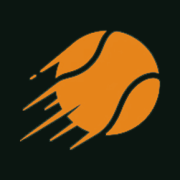
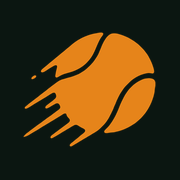
Sitio instalable como app (PWA) e íconos desde el original
Manifiesto y service worker de "primero la red": se instala en Android e
iPhone y abre sin conexión; /api y /admin nunca pasan por él. Interruptores
de retiro (RETIRED en sw.js, PWA en app.js) probados para volver al sitio
anterior. Favicon, ícono de iPhone e íconos de la app regenerados desde el
original en 1024 px, en su versión plana.

Changed region(s): [[0.1111, 0.1667, 0.8889, 0.8333], [0.3611, 0.25, 0.3889, 0.2778], [0.3333, 0.2778, 0.3611, 0.3056]]

diff --git a/public/sw.js b/public/sw.js
@@ -1,0 +1,55 @@
+// Service worker de Peloteo: permite instalar el sitio como app y abrirlo sin conexión.
+//
+// - Primero la red: si hay conexión, siempre se ve la versión publicada (un push a
+//   main llega igual que antes). La copia guardada solo se usa sin conexión.
+// - /api y /admin nunca pasan por aquí: los datos de partidos y el panel siempre
+//   van al servidor. Sin conexión, la app muestra su aviso "Revisa tu conexión".
+// - Al cambiar VERSION se descartan las copias anteriores.
+//
+// RETIRO: para dejar el sitio como antes de la app instalable, poner RETIRED = true
+// aquí y PWA = false en app.js, y publicar. Este archivo NO se borra (al menos por
+// unos meses): los navegadores que ya lo instalaron lo vuelven a pedir, y esta
+// versión se borra a sí misma, elimina sus copias y deja de intervenir.
+const RETIRED = false;
+const VERSION = 'peloteo-v1';
+const SHELL = ['/', '/styles.css', '/app.js', '/img/logo.png', '/img/inicio-tenis.webp', '/img/icon-192.png', '/favicon.ico', '/manifest.webmanifest'];
+
+self.addEventListener('install', (e) => {
+  if (RETIRED) { e.waitUntil(self.skipWaiting()); return; }
+  e.waitUntil(caches.open(VERSION).then((c) => c.addAll(SHELL)).then(() => self.skipWaiting()));
+});
+
+self.addEventListener('activate', (e) => {
+  if (RETIRED) {
+    e.waitUntil(
+      caches.keys()
+        .then((keys) => Promise.all(keys.filter((k) => k.startsWith('peloteo-')).map((k) => caches.delete(k))))
+        .then(() => self.registration.unregister()),
+    );
+    return;
+  }
+  e.waitUntil(
+    caches.keys()
+      .then((keys) => Promise.all(keys.filter((k) => k !== VERSION).map((k) => caches.delete(k))))
+      .then(() => self.clients.claim()),
+  );
+});
+
+self.addEventListener('fetch', (e) => {
+  if (RETIRED) return; // todo va directo a la red, como sin service worker
+  const req = e.request;
+  const url = new URL(req.url);
+  if (req.method !== 'GET' || url.origin !== self.location.origin) return;
+  if (url.pathname.startsWith('/api/') || url.pathname === '/admin' || url.pathname.startsWith('/admin/')) return;
+  e.respondWith(
+    fetch(req)
+      .then((res) => {
+        if (res.ok && res.type === 'basic') {
+          const copy = res.clone();
+          caches.open(VERSION).then((c) => c.put(req.mode === 'navigate' ? '/' : req, copy));
+        }
+        return res;
+      })
+      .catch(async () => (await caches.match(req.mode === 'navigate' ? '/' : req, { ignoreSearch: true })) || Response.error()),
+  );
+});

diff --git a/public/app.js b/public/app.js
@@ -852,10 +852,26 @@
     }
   });
 
+  // App instalable: el service worker (public/sw.js) guarda el sitio para abrirlo sin conexión.
+  // PWA = false la retira: desregistra el service worker de este navegador y borra
+  // sus copias (ver RETIRED en sw.js y "App instalable" en CLAUDE.md).
+  const PWA = true;
+  if ('serviceWorker' in navigator) {
+    window.addEventListener('load', () => {
+      if (PWA) { navigator.serviceWorker.register('/sw.js').catch(() => { /* sin service worker: el sitio funciona igual */ }); return; }
+      navigator.serviceWorker.getRegistrations().then((rs) => rs.forEach((r) => r.unregister())).catch(() => {});
+      if (window.caches) caches.keys().then((ks) => ks.filter((k) => k.startsWith('peloteo-')).forEach((k) => caches.delete(k))).catch(() => {});
+    });
+  }
+
   (async function boot() {
     saveLang(false); // lang y título de la página; la cookie solo se escribe al elegir idioma
     const [today, sports, open] = await Promise.all([get('/api/today'), get('/api/sports'), get('/api/open')]);
-    if (!today) { $('#app').innerHTML = '<div class="card"><h2>' + L('No pudimos cargar las canchas', "We couldn't load the courts") + '</h2><p class="muted">' + L('Revisa tu conexión y vuelve a intentarlo.', 'Check your connection and try again.') + '</p><div class="actions"><button class="btn" onclick="location.reload()">' + L('Reintentar', 'Try again') + '</button></div></div>'; return; }
+    if (!today) {
+      // Sin conexión (o el servidor no responde): la app abre igual desde su copia
+      // guardada y lo explica, con el logotipo en la barra.
+      $('#bar').innerHTML = '<span class="brand"><img src="/img/logo.png" alt="Peloteo" width="648" height="120"></span>';
+      $('#app').innerHTML = '<div class="card"><h2>' + L('No pudimos cargar las canchas', "We couldn't load the courts") + '</h2><p class="muted">' + L('Revisa tu conexión y vuelve a intentarlo.', 'Check your connection and try again.') + '</p><div class="actions"><button class="btn" onclick="location.reload()">' + L('Reintentar', 'Try again') + '</button></div></div>'; return; }
     S.today = today; todayLoadedAt = Date.now(); S.sports = sports || []; S.open = open || [];
     if (!fromHash()) { S.view = 'home'; render(); maybeIntro(); }
     await loadMine(); render();

diff --git a/public/index.html b/public/index.html
@@ -12,6 +12,10 @@
 <link rel="icon" href="/favicon.ico" sizes="16x16 32x32 48x48">
 <link rel="icon" type="image/png" href="/img/icon-192.png" sizes="192x192">
 <link rel="apple-touch-icon" href="/img/apple-touch-icon.png">
+<link rel="manifest" href="/manifest.webmanifest">
+<meta name="mobile-web-app-capable" content="yes">
+<meta name="apple-mobile-web-app-capable" content="yes">
+<meta name="apple-mobile-web-app-title" content="Peloteo">
 <link rel="stylesheet" href="/styles.css">
 </head>
 <body>

diff --git a/CLAUDE.md b/CLAUDE.md
@@ -189,6 +189,15 @@ Las claves de proveedores van como secrets de Cloudflare, nunca en el repositori
   - El servidor traduce los mensajes de error de `/api` según la cookie (`src/lib/i18n.ts`: `ERRORS_EN` y patrones). Toda frase de error nueva debe agregarse ahí; una prueba lo exige.
   - Nombres de deportes conocidos en inglés (`SPORTS_EN` en `src/lib/i18n.ts`, que llega en `GET /api/today` como `sport_names_en`); los lugares no se traducen. Las categorías usan `label_en` (se edita en el formulario del deporte del admin).
   - Correos: cada cupo guarda el idioma de quien se anotó (`player.lang` al abrir o unirse) y cada jugador recibe sus avisos en ese idioma, aunque sus compañeros usen el otro. El correo de ingreso a cuentas (desactivadas) sigue solo en español.
+- **App instalable (2026-11-15, paso 0 hacia las apps nativas):** el sitio se instala como app web en Android (Chrome: "Instalar app") e iPhone (Safari: Compartir › Agregar a inicio).
+  - `public/manifest.webmanifest`: nombre, colores, `display: standalone` e íconos de 192 y 512 px (`icon-*.png` transparentes y `icon-maskable-*.png` sobre `#0B1611`, generados desde `icono_peloteo_plano.png`).
+  - `public/sw.js`: service worker de "primero la red". Con conexión siempre se ve lo publicado (un push llega igual que antes); sin conexión abre la copia guardada y la app muestra "No pudimos cargar las canchas". `/api` y `/admin` nunca pasan por él. Cambiar `VERSION` descarta las copias antiguas (no hace falta en cada despliegue).
+  - **Cómo retirarla y dejar el sitio como antes** (probado en local el 2026-11-15). No basta con borrar `sw.js` ni con revertir el commit: los navegadores que ya la instalaron conservarían el service worker. Pasos:
+    1. En `public/sw.js`, `RETIRED = true`; en `public/app.js`, `PWA = false`. Opcional: quitar de `public/index.html` el enlace al manifiesto y las tres etiquetas `mobile-web-app` / `apple-mobile-web-app`.
+    2. Probar en local, commit y push. Cada navegador, en su siguiente visita, borra el service worker y sus copias; desde ahí el sitio funciona exactamente como antes (sin conexión vuelve a mostrar el error del navegador).
+    3. Dejar `public/sw.js` publicado al menos 3 meses, para alcanzar a quien vuelva tarde. Después se pueden borrar `sw.js`, el manifiesto, los íconos nuevos y los interruptores.
+    4. Los íconos ya agregados a la pantalla de inicio no se pueden quitar a distancia: siguen abriendo https://peloteo.cl como acceso directo.
+  - Siguientes pasos evaluados (sin empezar): Capacitor para App Store y Google Play, identidad por encabezado en vez de cookie dentro de la app, enlaces universales para `#cancelar=` y notificaciones push con Firebase.
 - Flujo público: deporte, lugar, calendario (solo días entre hoy y hoy + 15; si el rango cruza al mes siguiente, se puede avanzar a ese mes), horas del día, formulario, confirmación.
 - El calendario marca los días con encuentros que buscan jugadores.
 - El selector de nivel muestra el número y el texto de la categoría.
@@ -204,7 +213,7 @@ Las claves de proveedores van como secrets de Cloudflare, nunca en el repositori
   - Íconos: SVG en línea, trazo de 2,25 px con puntas redondas y sin relleno (pádel, tenis, día, hora, lugar, jugadores, buscar).
   - Imágenes: fotos reales de las canchas en duotono verde y negro, con las líneas de la cancha dibujadas encima; solo en el inicio y en la tarjeta de cada lugar. Mientras no haya fotos, se usan solo las líneas de la cancha en SVG.
   - Logotipo (2026-11-13): `public/img/logo.png` (pelota con calendario y "peloteo.cl"), en la esquina superior izquierda del sitio y del admin en vez de la palabra. Es una versión con fondo transparente, recortada y reducida a 648×120 a partir del PNG original con fondo verde. Alto de 1,9 rem (1,75 rem hasta 420 px y 1,45 rem hasta 360 px); en teléfonos "Buscar" queda solo con su ícono.
-  - Favicon (2026-11-13): la pelota naranja del logotipo. `public/favicon.ico` (16, 32 y 48 px), `public/img/icon-192.png` (transparente) y `public/img/apple-touch-icon.png` (180 px sobre `#0B1611`, para el acceso directo en iPhone), enlazados en `public/index.html` y `public/admin/index.html`.
+  - Favicon (2026-11-13; regenerado el 2026-11-15 desde el original en alta resolución): la pelota naranja del logotipo. Original del dueño: `public/img/icono_peloteo.png` (1024 px, con contorno negro y borde blanco tipo sticker). Por decisión del dueño, los íconos usan la versión plana `public/img/icono_peloteo_plano.png` (solo el naranjo, costuras transparentes, como el logotipo); todos los íconos salen de esa versión. `public/favicon.ico` (16, 32 y 48 px), `public/img/icon-192.png` (transparente) y `public/img/apple-touch-icon.png` (180 px sobre `#0B1611`, para el acceso directo en iPhone), enlazados en `public/index.html` y `public/admin/index.html`.
   - Inicio (2026-11-13): por decisión del dueño, el héroe usa la foto `public/img/inicio-tenis.webp` (pelota en cancha de arcilla, colores naturales, sin duotono) con un degradado oscuro abajo para que el título se lea. Es decorativa: va como fondo en CSS.
 - Accesible: foco visible, etiquetas en todos los campos, objetivos táctiles amplios.
 
